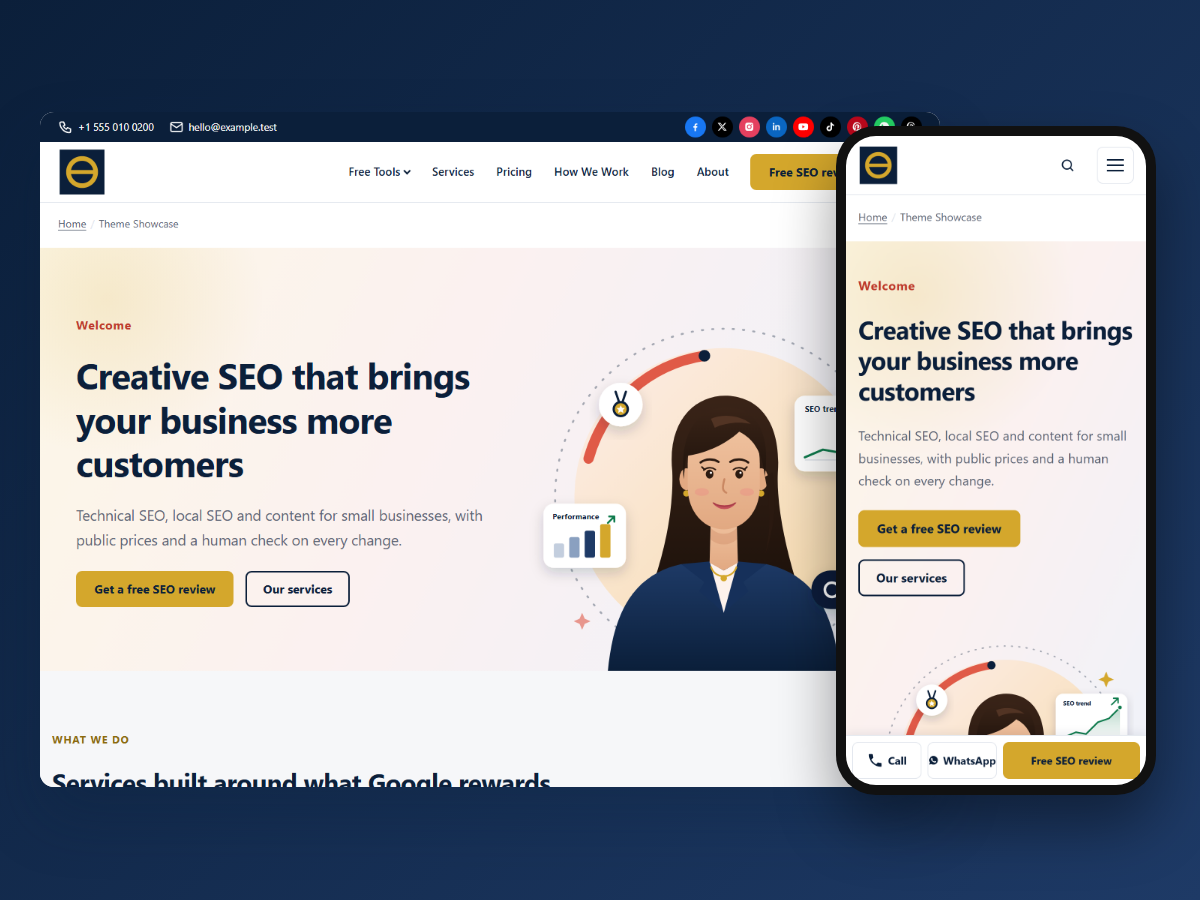
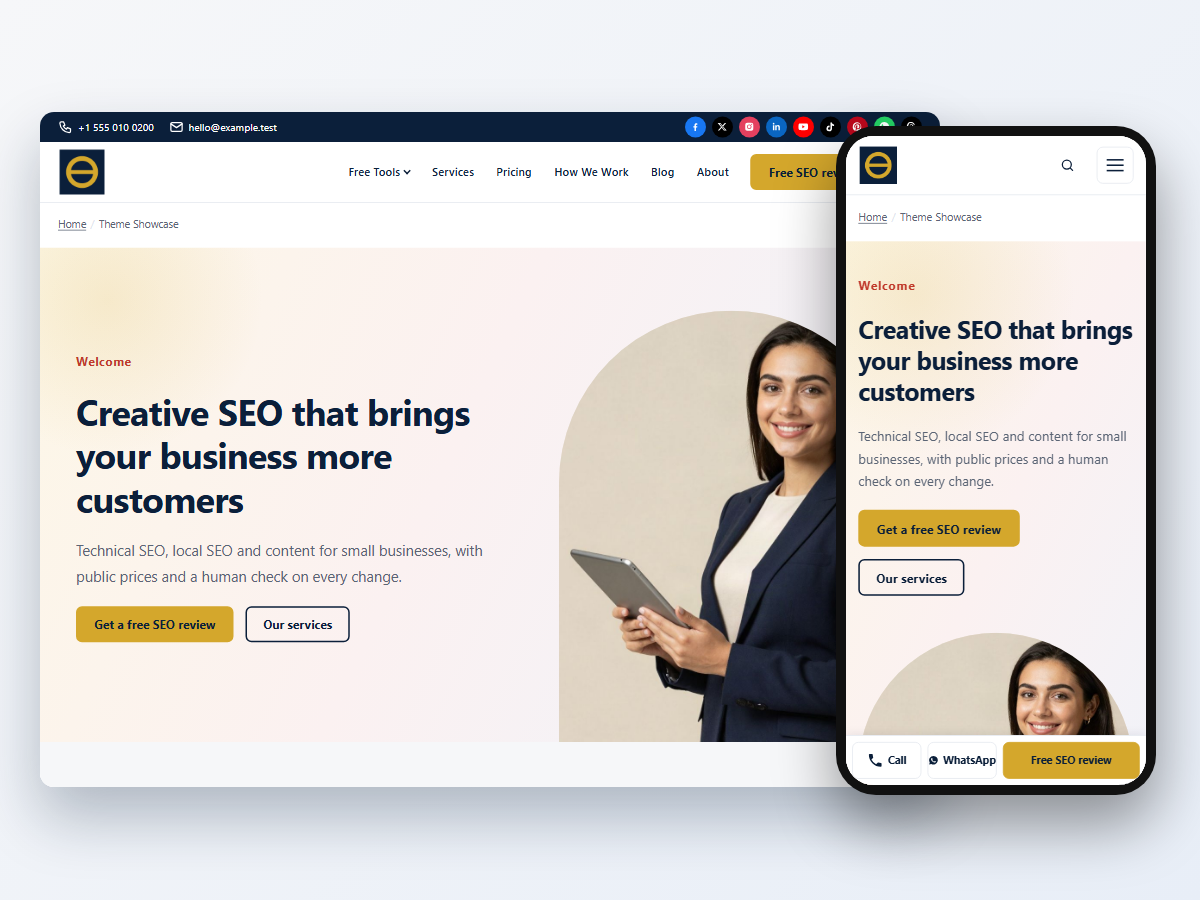
Theme 1.3.1 / child 1.2.1: photo hero and new screenshots

diff --git a/semrs-site/theme/semrs/style.css b/semrs-site/theme/semrs/style.css
@@ -4,7 +4,7 @@ Theme URI:         https://semrs.com/
 Author:            SEMRS
 Author URI:        https://semrs.com/
 Description:       Lightweight, SEO-first theme for businesses, agencies and blogs. Drag-and-drop header and footer builder with top bar, sticky and transparent header, header search and a mobile menu panel. Seven section patterns, sidebar layouts, blog grid or list, reading progress bar, author box, related posts and per-page header, footer and sidebar options. No jQuery: one stylesheet and one small script.
-Version:           1.3.0
+Version:           1.3.1
 Requires at least: 6.5
 Tested up to:      7.1
 Requires PHP:      7.4
@@ -532,6 +532,8 @@ label { font-weight: 600; color: var(--sp-primary); }
 .semrs-hero-cover .semrs-lead { padding-inline-end: 0; }
 .semrs-hero-cover__img { margin: 0; }
 .semrs-hero-cover__img img { display: block; width: 100%; height: auto; }
+.semrs-hero-cover__photo { max-width: 460px; margin: 2rem 0 0 auto; }
+.semrs-hero-cover__photo img { aspect-ratio: 4 / 5; object-fit: cover; object-position: center top; border-radius: 999px 999px 0 0; background: #efe6dc; }
 @media (max-width: 781px) { .semrs-hero-cover__text { padding-bottom: 1rem; } .semrs-hero-cover__img { max-width: 420px; margin-inline: auto; } }
 html[data-theme="dark"] .semrs-hero-cover { background: linear-gradient(115deg, #13233d 0%, #172743 50%, #0f1d33 100%); }
 html[data-theme="dark"] .semrs-hero-cover .semrs-eyebrow { color: #f08a7e; }

diff --git a/semrs-site/preview/shots/theme-shot.html b/semrs-site/preview/shots/theme-shot.html
@@ -1,0 +1,10 @@
+<!doctype html><html><head><meta charset="utf-8"><style>
+html,body{margin:0;width:1200px;height:900px;overflow:hidden;background:linear-gradient(135deg,#f6f7f9,#e8eef7)}
+.desk{position:absolute;left:40px;top:112px;width:900px;height:675px;border-radius:14px;overflow:hidden;box-shadow:0 30px 60px rgba(11,31,58,.28);background:#fff}
+.desk iframe{border:0;width:1200px;height:900px;transform:scale(.75);transform-origin:0 0;display:block}
+.phone{position:absolute;right:44px;top:126px;width:300px;height:649px;border-radius:40px;padding:10px;background:#111;box-shadow:0 30px 60px rgba(0,0,0,.4);overflow:hidden}
+.phone iframe{border:0;width:390px;height:844px;transform:scale(.769);transform-origin:0 0;border-radius:36px;background:#fff;display:block}
+</style></head><body>
+<div class="desk"><iframe id="d" scrolling="no"></iframe></div><div class="phone"><iframe id="m" scrolling="no"></iframe></div>
+<script>var s=new URLSearchParams(location.search).get("shot")||"parent",u="/theme-showcase/?semrs_shot="+s+"&v="+Date.now();document.getElementById("d").src=u;document.getElementById("m").src=u;</script>
+</body></html>

diff --git a/semrs-site/theme/semrs-child-seo/style.css b/semrs-site/theme/semrs-child-seo/style.css
@@ -5,7 +5,7 @@ Description:  SEMRS brand layer for the SEMRS theme: navy/gold brand tokens, sti
 Author:       SEMRS
 Author URI:   https://semrs.com/
 Template:     semrs
-Version:      1.2.0
+Version:      1.2.1
 Requires at least: 6.5
 Tested up to: 7.1
 Requires PHP: 7.4

diff --git a/semrs-site/theme/semrs/patterns/hero-cover.php b/semrs-site/theme/semrs/patterns/hero-cover.php
@@ -38,8 +38,8 @@ defined( 'ABSPATH' ) || exit;
 <!-- /wp:column -->
 
 <!-- wp:column {"verticalAlignment":"bottom","width":"48%","className":"semrs-hero-cover__media"} -->
-<div class="wp-block-column is-vertically-aligned-bottom semrs-hero-cover__media" style="flex-basis:48%"><!-- wp:image {"sizeSlug":"full","linkDestination":"none","className":"semrs-hero-cover__img"} -->
-<figure class="wp-block-image size-full semrs-hero-cover__img"><img src="<?php echo esc_url( get_template_directory_uri() . '/assets/images/hero-cover.svg' ); ?>" alt="SEO specialist with a rising traffic trend and ranking icons" width="600" height="560"/></figure>
+<div class="wp-block-column is-vertically-aligned-bottom semrs-hero-cover__media" style="flex-basis:48%"><!-- wp:image {"sizeSlug":"full","linkDestination":"none","className":"semrs-hero-cover__img semrs-hero-cover__photo"} -->
+<figure class="wp-block-image size-full semrs-hero-cover__img semrs-hero-cover__photo"><img src="<?php echo esc_url( get_template_directory_uri() . '/assets/images/hero-photo.jpg' ); ?>" alt="SEO specialist smiling and holding a tablet" width="800" height="1000" fetchpriority="high"/></figure>
 <!-- /wp:image --></div>
 <!-- /wp:column --></div>
 <!-- /wp:columns --></div>

diff --git a/semrs-site/theme/semrs/functions.php b/semrs-site/theme/semrs/functions.php
@@ -14,7 +14,7 @@
 
 defined( 'ABSPATH' ) || exit;
 
-define( 'SEMRS_THEME_VERSION', '1.3.0' );
+define( 'SEMRS_THEME_VERSION', '1.3.1' );
 define( 'SEMRS_THEME_DIR', get_template_directory() );
 define( 'SEMRS_THEME_URI', get_template_directory_uri() );
 

diff --git a/semrs-site/theme/semrs-child-seo/functions.php b/semrs-site/theme/semrs-child-seo/functions.php
@@ -7,7 +7,7 @@
 
 defined( 'ABSPATH' ) || exit;
 
-define( 'SEMRS_CHILD_VERSION', '1.2.0' );
+define( 'SEMRS_CHILD_VERSION', '1.2.1' );
 
 /**
  * Read a child setting (Customizer → SEMRS Theme → Contact & conversion).
